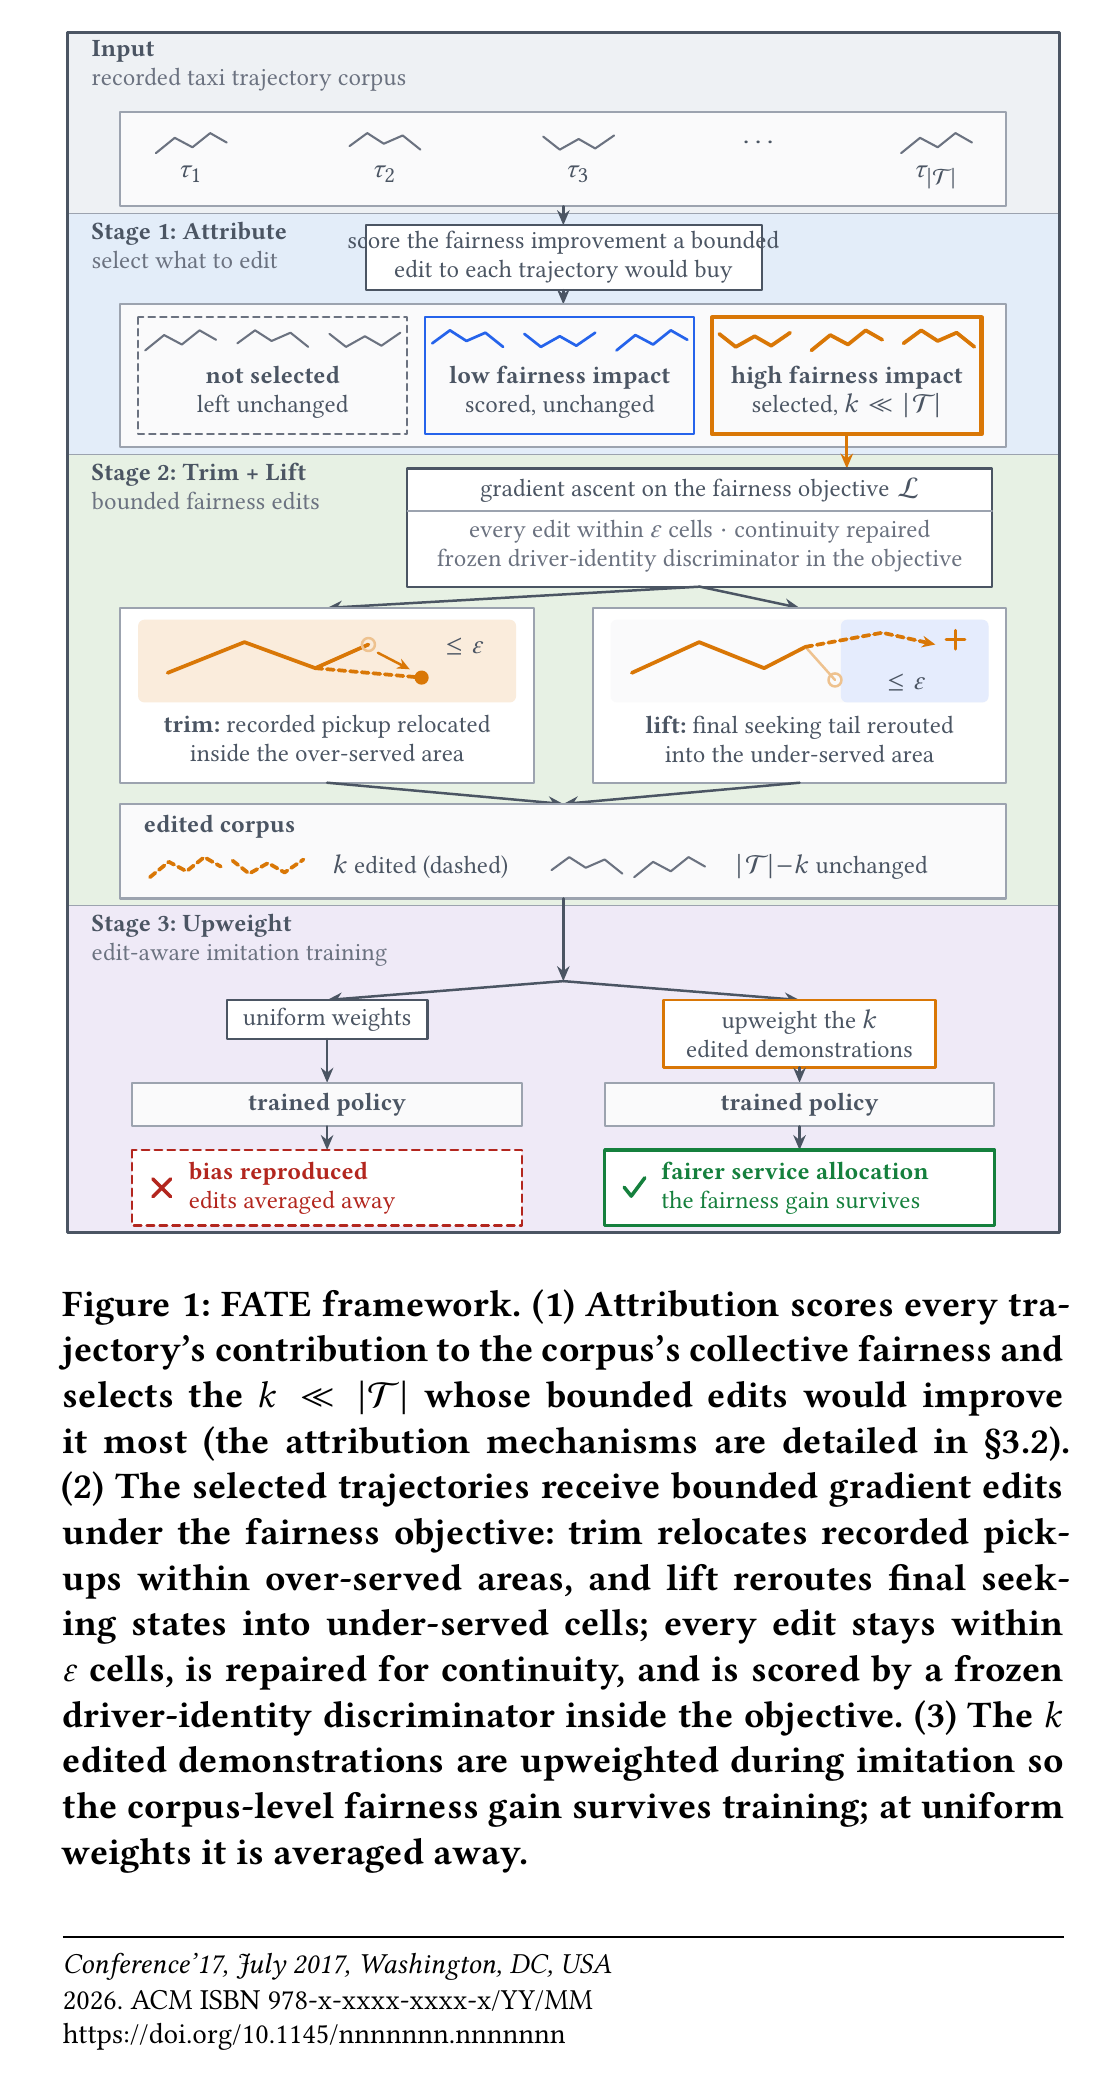
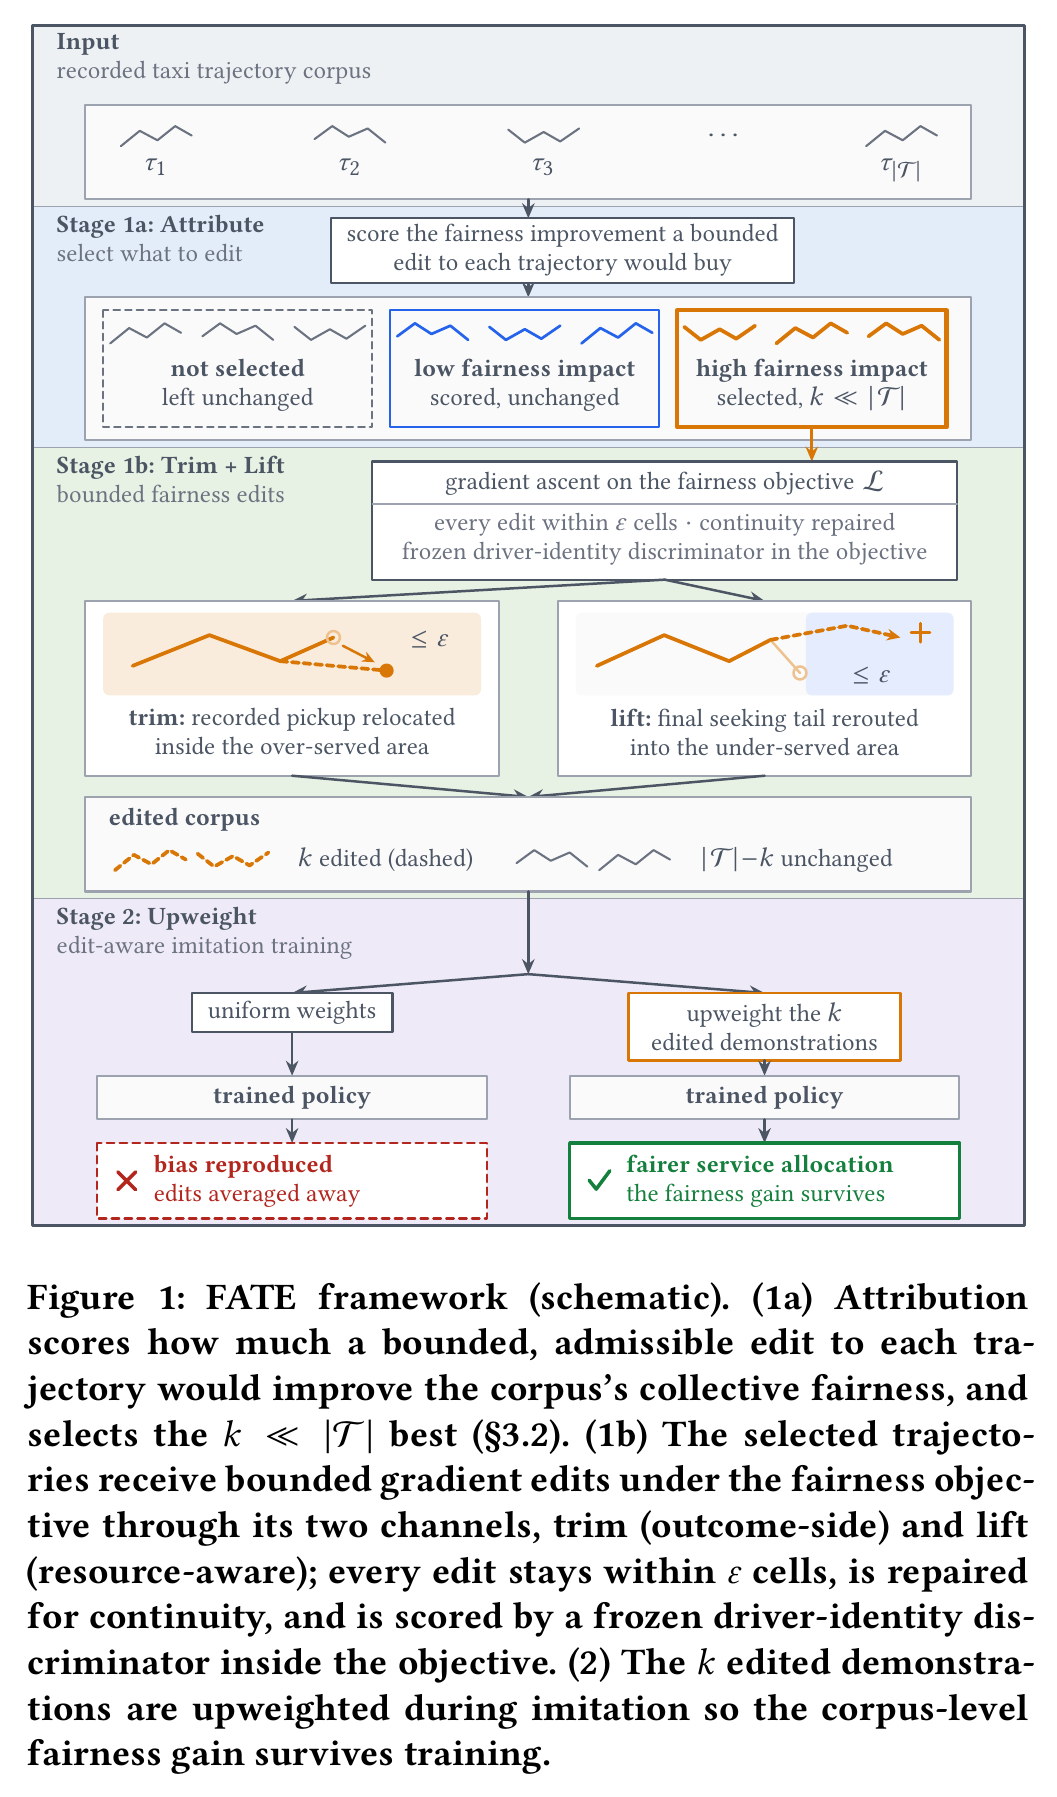
paper(fig-2): stages relabelled 1a / 1b / 2 so the figure stops contradicting "FATE has two stages"
Robert's call, and I agree with it. The opening sentence of §3 says FATE has
two stages and §6 repeats it, but the figure labelled three. Attribution is
not a third stage: §3.2 calls it "the mechanism that decides which
trajectories receive the budget", i.e. part of the edit. So the bands are now
"Stage 1a: Attribute", "Stage 1b: Trim + Lift", "Stage 2: Upweight". The a/b
split keeps attribute and edit visually distinct — they answer different
challenges (C1 vs C2/C4) — while showing the nesting the prose claims. The
alternative I weighed, renaming "Stage" to "Step" to match §3's "three coarse
steps", removes the contradiction without teaching the structure.

Three things had to move with the labels or the fix would have created a new
mismatch:
- The Figure-2 caption enumerated the bands (1)/(2)/(3); now (1a)/(1b)/(2).
- The \Description opened "A three-stage framework diagram"; rewritten.
- framework-test.tex's working caption was still the PRE-review-fix-#2 text, so
  the Zhang-facing PNG rendered a caption the manuscript no longer used. Synced.

Caught while rewriting the \Description: it still said attribution "scores each
trajectory's CONTRIBUTION to the corpus's collective fairness" — the exact D3
per-trajectory fairness score that review finding #2 repaired in the caption
and the op-box back at c921518. The accessibility text was missed in that pass.
It now matches the caption: it scores how much a bounded edit to each
trajectory WOULD IMPROVE collective fairness.
[…]

Changed region(s): [[0.0312, 0.0, 0.9678, 0.9972], [0.9366, 0.4986, 0.9678, 0.5298]]

diff --git a/paper/figures/figure-2/framework.tex b/paper/figures/figure-2/framework.tex
@@ -24,6 +24,16 @@
 %   file ending in a comment character (a bare newline would leak an
 %   interword space when the file is \input mid-paragraph).
 %   Every band edge is a \def below; move a band by editing ONE number.
+%   BAND LABELS (2026-07-25, Robert): the three drawn bands are labelled
+%   "Stage 1a: Attribute", "Stage 1b: Trim + Lift", "Stage 2: Upweight" —
+%   NOT 1/2/3. FATE has TWO stages (\S3's opening sentence, \S6, and the
+%   two-stage claim \S4 tests): a budgeted constrained EDIT, then edit-aware
+%   WEIGHTING. Attribution is not a third stage; \S3.2 calls it "the mechanism
+%   that decides which trajectories receive the budget", i.e. part of the edit.
+%   The a/b split keeps attribute and edit visually distinct (they answer
+%   different challenges, C1 and C2/C4) while showing the nesting. The geometry
+%   comments below still say "stage-1/2/3 band" for the three BANDS; read those
+%   as band indices, not stage names.
 %   Layout rule that keeps this tunable: each band's 2-line title block sits
 %   top-LEFT and is kept narrow (< 2.9cm); all flow boxes live at x > 2.9 in
 %   that y-range, so only thin arrow lines ever pass beside a title.
@@ -142,19 +152,26 @@
   \node[anchor=north] at (7.36,-1.08) {$\tau_{|\mathcal{T}|}$};
 
   % =====================================================================
-  % STAGE 1 -- Attribute: score every trajectory, select the budgeted few
+  % STAGE 1a -- Attribute: score every trajectory, select the budgeted few
   % =====================================================================
   \node[ttl] at (0.20,-1.59)
-    {\textbf{Stage 1: Attribute}\\\textcolor{fwgray}{select what to edit}};
+    {\textbf{Stage 1a: Attribute}\\\textcolor{fwgray}{select what to edit}};
   \draw[flow] (\spine,-1.47) -- (\spine,-1.63);
-  \draw[opbox] (2.53,-1.63) rectangle (5.88,-2.18);
-  \node[align=center] at (\spine,-1.905)
+  % 2026-07-25: box widened to the right (5.88 -> 6.45) and its text re-centred on
+  % the box (4.49) instead of the spine. The two-line label is ~3.67cm wide but the
+  % box was 3.35cm, so the left border struck through the "c" of "score" and the
+  % text ran back toward the band title. Height is unchanged, so the figure's
+  % vertical rhythm and both size gates are untouched; the flow arrows still enter
+  % and leave on the spine, which lies inside the wider box. An off-spine op-box is
+  % already this figure's convention (Stage 1b's sits at 2.88-7.83, centred 5.355).
+  \draw[opbox] (2.53,-1.63) rectangle (6.45,-2.18);
+  \node[align=center] at (4.49,-1.905)
     {score the fairness improvement a bounded\\edit to each trajectory would buy};
   \draw[flow] (\spine,-2.18) -- (\spine,-2.3);
   \draw[data] (\xL,-2.3) rectangle (\xR,-3.51);
   % --- three groups, coloured by attribution outcome (left to right =
   % --- increasing fairness impact; the selected group sits on the branch
-  % --- that continues into Stage 2)
+  % --- that continues into Stage 1b)
   \draw[fwgray, line width=0.5pt, dash pattern=on 1.6pt off 1.2pt]
     (0.60,-2.41) rectangle (2.88,-3.4);
   \pic[tnone] at (0.66,-2.69) {traja};
@@ -176,10 +193,10 @@
     {\textbf{high fairness impact}\\selected, $k \ll |\mathcal{T}|$};
 
   % =====================================================================
-  % STAGE 2 -- Trim + Lift: bounded edits to the selected trajectories
+  % STAGE 1b -- Trim + Lift: bounded edits to the selected trajectories
   % =====================================================================
   \node[ttl] at (0.20,-3.63)
-    {\textbf{Stage 2: Trim + Lift}\\\textcolor{fwgray}{bounded fairness edits}};
+    {\textbf{Stage 1b: Trim + Lift}\\\textcolor{fwgray}{bounded fairness edits}};
   % the selected (colour-A) slice is what flows on: amber arrow
   \draw[flowsel] (6.60,-3.4) -- (6.60,-3.69);
   \draw[opbox] (2.88,-3.69) rectangle (7.83,-4.69);
@@ -225,7 +242,7 @@
   \node[anchor=north, align=center] at (\bR,-5.73)
     {\textbf{lift:} final seeking tail rerouted\\into the under-served area};
 
-  % --- output of Stage 2: the edited corpus ----------------------------
+  % --- output of Stage 1b: the edited corpus ----------------------------
   \draw[flow] (\bL,-6.35) -- (\spine,-6.53);
   \draw[flow] (\bR,-6.35) -- (\spine,-6.53);
   \draw[data] (\xL,-6.53) rectangle (\xR,-7.33);
@@ -238,10 +255,10 @@
   \node[anchor=west] at (5.60,-7.06) {$|\mathcal{T}|{-}k$ unchanged};
 
   % =====================================================================
-  % STAGE 3 -- Upweight: the sparse edits must survive training
+  % STAGE 2 -- Upweight: the sparse edits must survive training
   % =====================================================================
   \node[ttl] at (0.20,-7.45)
-    {\textbf{Stage 3: Upweight}\\
+    {\textbf{Stage 2: Upweight}\\
      \textcolor{fwgray}{edit-aware imitation training}};
   \draw[flow] (\spine,-7.33) -- (\spine,-8.03);
   \draw[flow] (\spine,-8.03) -- (\bL,-8.19);

diff --git a/paper/sections/03_methodology.tex b/paper/sections/03_methodology.tex
@@ -43,29 +43,41 @@ challenge of \S\ref{sec:overview}, named in its opening sentence.
   % own two edit-glyph labels already carry verbatim; and the closing "at uniform
   % weights it is averaged away", which the figure's terminal contrast box states
   % ("bias reproduced / edits averaged away"). No claim removed.
-  \caption{FATE framework (schematic). (1) Attribution scores how much a
+  \caption{FATE framework (schematic). (1a) Attribution scores how much a
   bounded, admissible edit to each trajectory would improve the corpus's
   collective fairness, and selects the $k \ll |\mathcal{T}|$ best
-  (\S\ref{sec:attribution}). (2) The selected trajectories receive bounded
+  (\S\ref{sec:attribution}). (1b) The selected trajectories receive bounded
   gradient edits under the fairness objective through its two channels, trim
   (outcome-side) and lift (resource-aware); every edit stays within
   $\varepsilon$ cells, is repaired for
   continuity, and is scored by a frozen driver-identity discriminator inside
-  the objective. (3) The $k$ edited demonstrations are upweighted during
+  the objective. (2) The $k$ edited demonstrations are upweighted during
   imitation so the corpus-level fairness gain survives training.}
-  \Description{A three-stage framework diagram read from top to bottom. The
-  first stage takes the raw trajectory corpus, scores each trajectory's
-  contribution to the corpus's collective fairness, and selects k of the
+  % 2026-07-25 (Robert): the figure's band labels became "Stage 1a / 1b / 2"
+  % because the opening sentence of this section says FATE has TWO stages while
+  % the figure said three. Attribution is not a third stage — \S\ref{sec:editor}
+  % calls it the mechanism that decides which trajectories receive the budget.
+  % The caption's enumerators track the band labels exactly.
+  \Description{A framework diagram read from top to bottom, showing a two-stage
+  method in which the first stage is drawn as two sub-steps. Stage 1a takes the
+  raw trajectory corpus, scores how much a bounded edit to each trajectory
+  would improve the corpus's collective fairness, and selects k of the
   trajectories, k being much smaller than the corpus size, leaving the rest
-  unchanged. The second stage passes the selected trajectories through bounded
+  unchanged. Stage 1b passes the selected trajectories through bounded
   gradient edits under the fairness objective, drawn as two edit glyphs: a
   trim that relocates a recorded pickup within an over-served area, and a lift
   that reroutes a trajectory's final seeking states into an under-served area,
-  each edit bounded to epsilon cells and repaired for continuity. The third
-  stage trains a policy on the edited corpus by imitation with the edited
+  each edit bounded to epsilon cells and repaired for continuity. Stage 2
+  trains a policy on the edited corpus by imitation with the edited
   demonstrations upweighted, and ends in a contrast pair: under uniform
   weights the bias is reproduced, and under upweighting the fairer service
   allocation survives training.}
+  % 2026-07-25: while renaming the stages here, the \Description was also found
+  % still carrying the D3 phrasing that review finding #2 repaired in the caption
+  % and the figure's op-box — "scores each trajectory's CONTRIBUTION to the
+  % corpus's collective fairness" is the per-trajectory fairness score the
+  % do-not-claim list forbids. It now matches the caption: it scores how much a
+  % bounded edit to each trajectory WOULD IMPROVE collective fairness.
   \label{fig:overview}
 \end{figure}
 

diff --git a/paper/sections/02_overview.tex b/paper/sections/02_overview.tex
@@ -110,17 +110,21 @@ concrete reasons; each dictates one component of the method
 % policy" (the same fact as being averaged away). Stacked format and the lead-in
 % sentence kept.
 \textbf{C1 (budget).} Real demonstrations are expensive and irreplaceable, so
-only a small share of the corpus may change. The difficulty is where to spend
+only a small share of the corpus may change. The difficulty lies in choosing where to spend
 a budget of $k \ll |\mathcal{T}|$ edits so that a few trajectories move the
 fairness of the whole corpus (\S\ref{sec:editor}).
 \textbf{C2 (fidelity).} A fairness edit is worthless if the result no longer
 reads as its original driver. Each edit is therefore bounded to a small
 neighborhood of the recorded trajectory and scored by a frozen driver-identity
 discriminator inside the editing objective (\S\ref{sec:phys-validity}).
-\textbf{C3 (the wrong target).} Equal service is the wrong target: a business
-district should receive more service than a quiet residential block. The
-objective must score only the service variation demand leaves unexplained
-(\S\ref{sec:objective}).
+\textbf{C3 (de\-mand-ad\-just\-ed fairness).}%
+% 2026-07-25: discretionary hyphens added to the bold compound. Without them
+% "demand-adjusted" is unbreakable and the challenge block overran the column by
+% 6.57pt (lint gate is >5pt). Same house pattern as "demo\-graph\-ic-parity" and
+% "dis\-pa\-rate-impact" elsewhere; the rendered word is unchanged. Equal service is not the target: a 
+business district should receive more service than a quiet residential block. 
+The objective must score only the service variation demand leaves
+unexplained (\S\ref{sec:objective}).
 \textbf{C4 (level up, not down).} Measured fairness can improve while the
 under-served gain nothing, and a demand-only editor does exactly that on our
 data (\S\ref{sec:leveling}). Leveling up needs a second channel that adds real

diff --git a/paper/figures/figure-2/framework-test.tex b/paper/figures/figure-2/framework-test.tex
@@ -32,17 +32,20 @@ Overfull warnings in the log mean the tikzpicture exceeds
 \begin{figure}[h]
   \centering
   \usebox{\figbox}
-  \caption{FATE framework. (1) Attribution scores every trajectory's
-  contribution to the corpus's collective fairness and selects the
-  $k \ll |\mathcal{T}|$ whose bounded edits would improve it most (the attribution
-  mechanisms are detailed in \S3.2). (2) The selected trajectories receive
-  bounded gradient edits under the fairness objective: trim relocates
-  recorded pickups within over-served areas, and lift reroutes final seeking
-  states into under-served cells; every edit stays within $\varepsilon$
-  cells, is repaired for continuity, and is scored by a frozen
-  driver-identity discriminator inside the objective. (3) The $k$ edited
+  % KEPT IN SYNC with the manuscript caption in sections/03_methodology.tex
+  % (2026-07-25). Two fixes landed there and are mirrored here: review finding #2
+  % (attribution scores the improvement a bounded edit WOULD BUY, never a
+  % per-trajectory fairness contribution — D3), and the Stage 1a/1b/2 renaming.
+  \caption{FATE framework (schematic). (1a) Attribution scores how much a
+  bounded, admissible edit to each trajectory would improve the corpus's
+  collective fairness, and selects the $k \ll |\mathcal{T}|$ best (\S3.2).
+  (1b) The selected trajectories receive bounded
+  gradient edits under the fairness objective through its two channels, trim
+  (outcome-side) and lift (resource-aware); every edit stays within
+  $\varepsilon$ cells, is repaired for continuity, and is scored by a frozen
+  driver-identity discriminator inside the objective. (2) The $k$ edited
   demonstrations are upweighted during imitation so the corpus-level fairness
-  gain survives training; at uniform weights it is averaged away.}
+  gain survives training.}
 \end{figure}
 
 \end{document}
